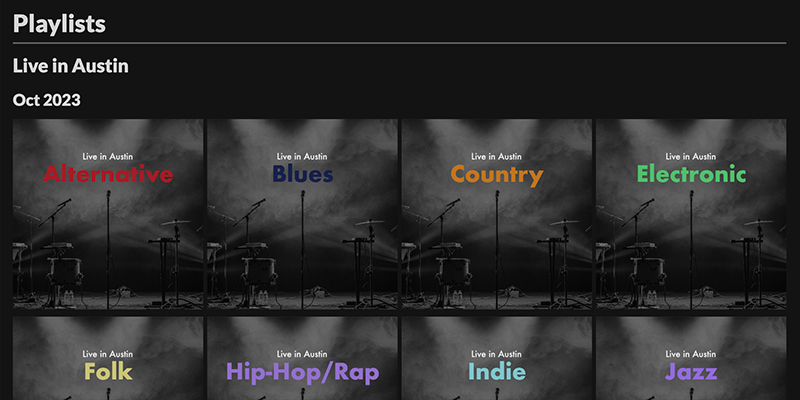
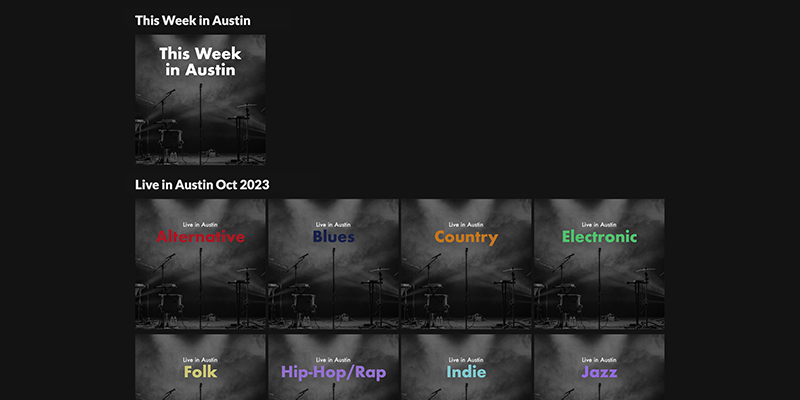
added live this week drivetone stuff

diff --git a/www/bradleyoesch.com/projects.html b/www/bradleyoesch.com/projects.html
@@ -37,9 +37,17 @@
           <br />
           <a href="https://pages.bradleyoesch.com/drivetone" target="_blank">https://pages.bradleyoesch.com/drivetone</a>
         </p>
-        </p>
-        <p class="project-details">I wanted to see more live music so I thought it would be cool to find all the musicians playing in Austin and group them by month and genre and create playlists so I could find new artists and see them live.</p>
-        <p class="project-details">Then covid happened and I didn’t bother for about three years… Went to a couple concerts recently and had a great time so went back to this and finished up an MVP. BY this point Spotify has already integrated live concerts in some way, so it's not like this is some groundbreaking idea.</p>
+        <p class="project-details">I wanted to see more live music so I thought it would be cool to find all the musicians playing in Austin and group them by month and genre and create playlists so I could find new artists and see them live. Then covid happened and I didn’t bother for about three years... Went to a couple concerts recently and had a great time so went back to this and finished up an MVP.</p>
+
+        <p class="project-details">Currently there are two kinds of playlists:</p>
+
+        <ul>
+          <li>Playlists for each month and each genre, to find new artists by genres</li>
+          <li>A running playlist for the "current week", to find new artists playing live this week</li>
+        </ul>
+
+        <p class="project-details">At this point Spotify has already integrated live concerts in some way, so it's not like these are some groundbreaking ideas, but I enjoyed making it and making something for myself!</p>
+
         <p class="project-details">This was built in Node.js and integrates with Spotify through <a href="https://github.com/thelinmichael/spotify-web-api-node" target="_blank">spotify-web-api-node</a>.</p>
       </div>
       <hr />
